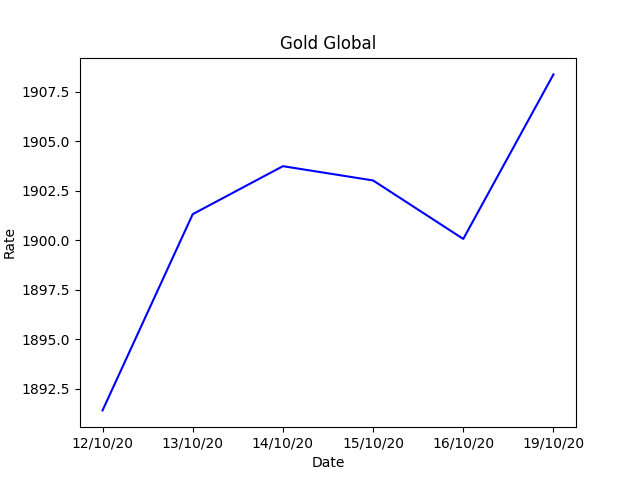
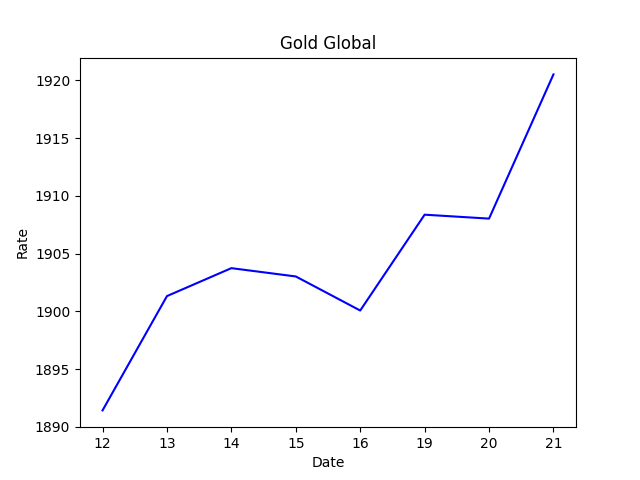
update
update

diff --git a/pythonlogin/graphall.py b/pythonlogin/graphall.py
@@ -1,0 +1,61 @@
+import psycopg2
+import matplotlib.pyplot as plt
+from matplotlib.ticker import FuncFormatter
+connection = psycopg2.connect(user="webadmin",
+                                password="BFCqhr46914", 
+                                host="node4943-env-2254395.th.app.ruk-com.cloud", 
+                                port="11043", 
+                                database="pythonlogin")
+cursor = connection.cursor()
+cursor.execute('SELECT * FROM MoneyTHAPI')
+money_records = cursor.fetchall()
+date=[]
+price=[]
+for i in money_records:
+    date.append((i[0])[0:2])
+    a = float(i[-1])
+    price.append(a)
+tick_label = date
+plt.plot(date,price,color='red')
+plt.title('SilverBath')
+plt.xlabel('Date')
+plt.ylabel('Rate')
+plt.savefig('pythonlogin/static/images/mymoney3.png')
+plt.close()
+cursor.close()
+cursor = connection.cursor()
+cursor.execute('SELECT * FROM GoldAPI')
+Goldapi_records = cursor.fetchall()
+date=[]
+tict=[]
+for y in Goldapi_records:
+    date.append((y[0])[0:2])
+    c = float(y[3])
+    tict.append(c)
+tick_label = date 
+plt.plot(date,tict,color='blue')
+plt.title('Gold Global')
+plt.xlabel('Date')
+plt.ylabel('Rate')
+plt.savefig('pythonlogin/static/images/goldapiplot3.png')
+plt.close()
+cursor.close()
+cursor = connection.cursor()
+cursor.execute('SELECT * FROM GoldTH')
+Goldth_records = cursor.fetchall()
+date=[]
+tict=[]
+for y in Goldth_records:
+    date.append((y[0])[0:2])
+    x = str(y[3])
+    q = x.split(",")
+    p = q[0]+q[1]
+    c = float(p)
+    tict.append(c)
+plt.plot(date,tict,color='g')
+plt.title('GoldTH')
+plt.xlabel('Date')
+plt.ylabel('Rate')
+plt.savefig('pythonlogin/static/images/goldthplot3.png')
+cursor.close()
+connection.close()
